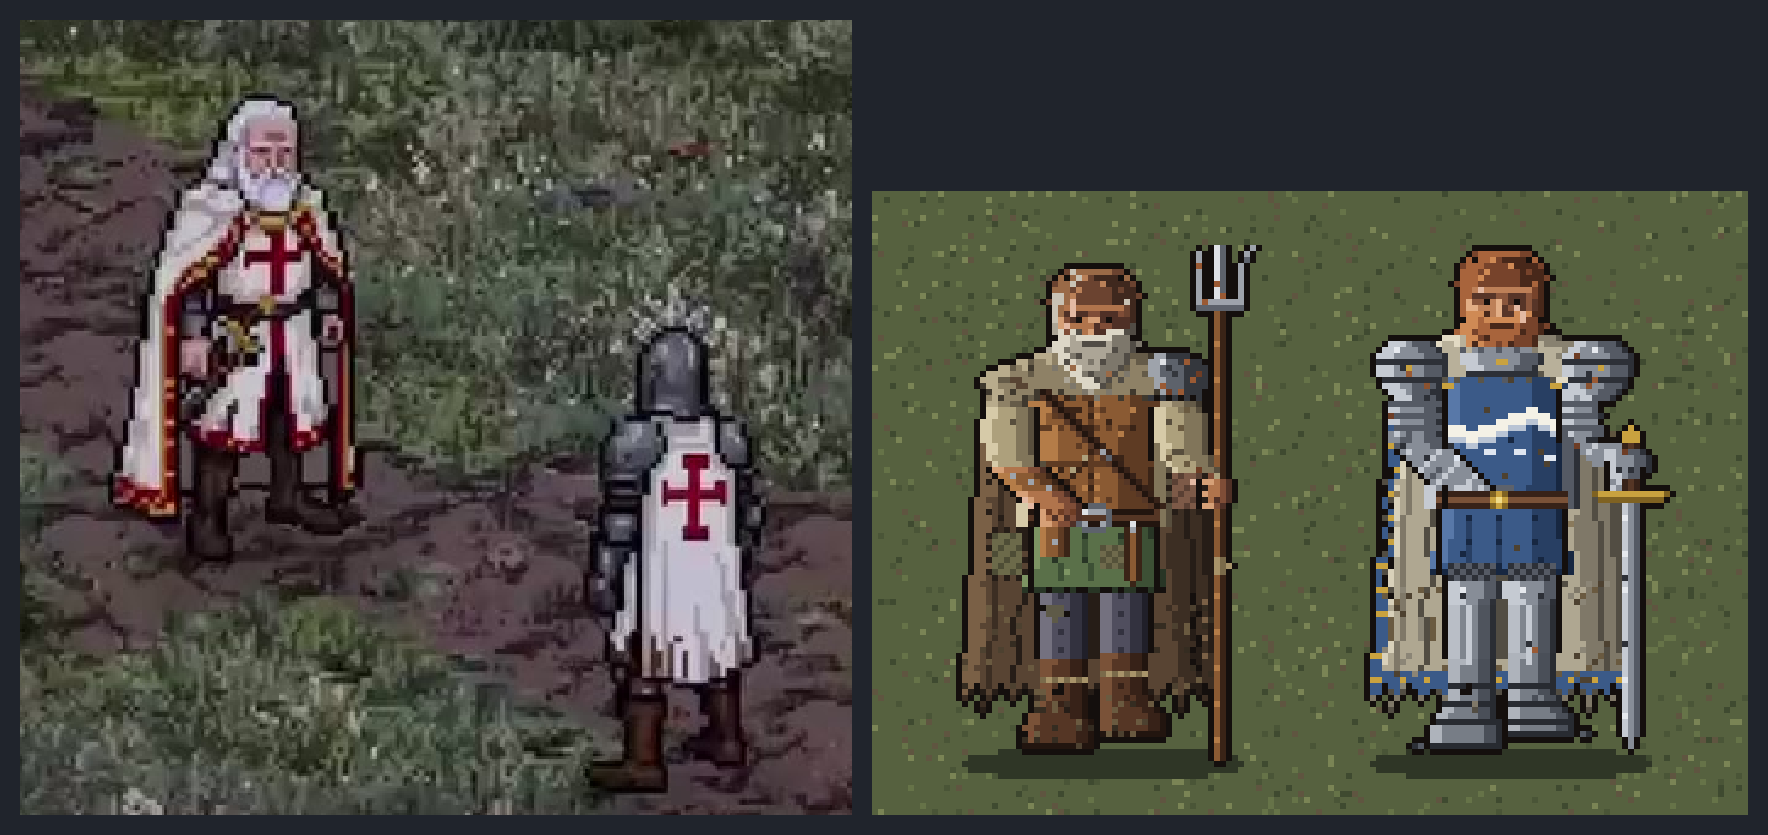
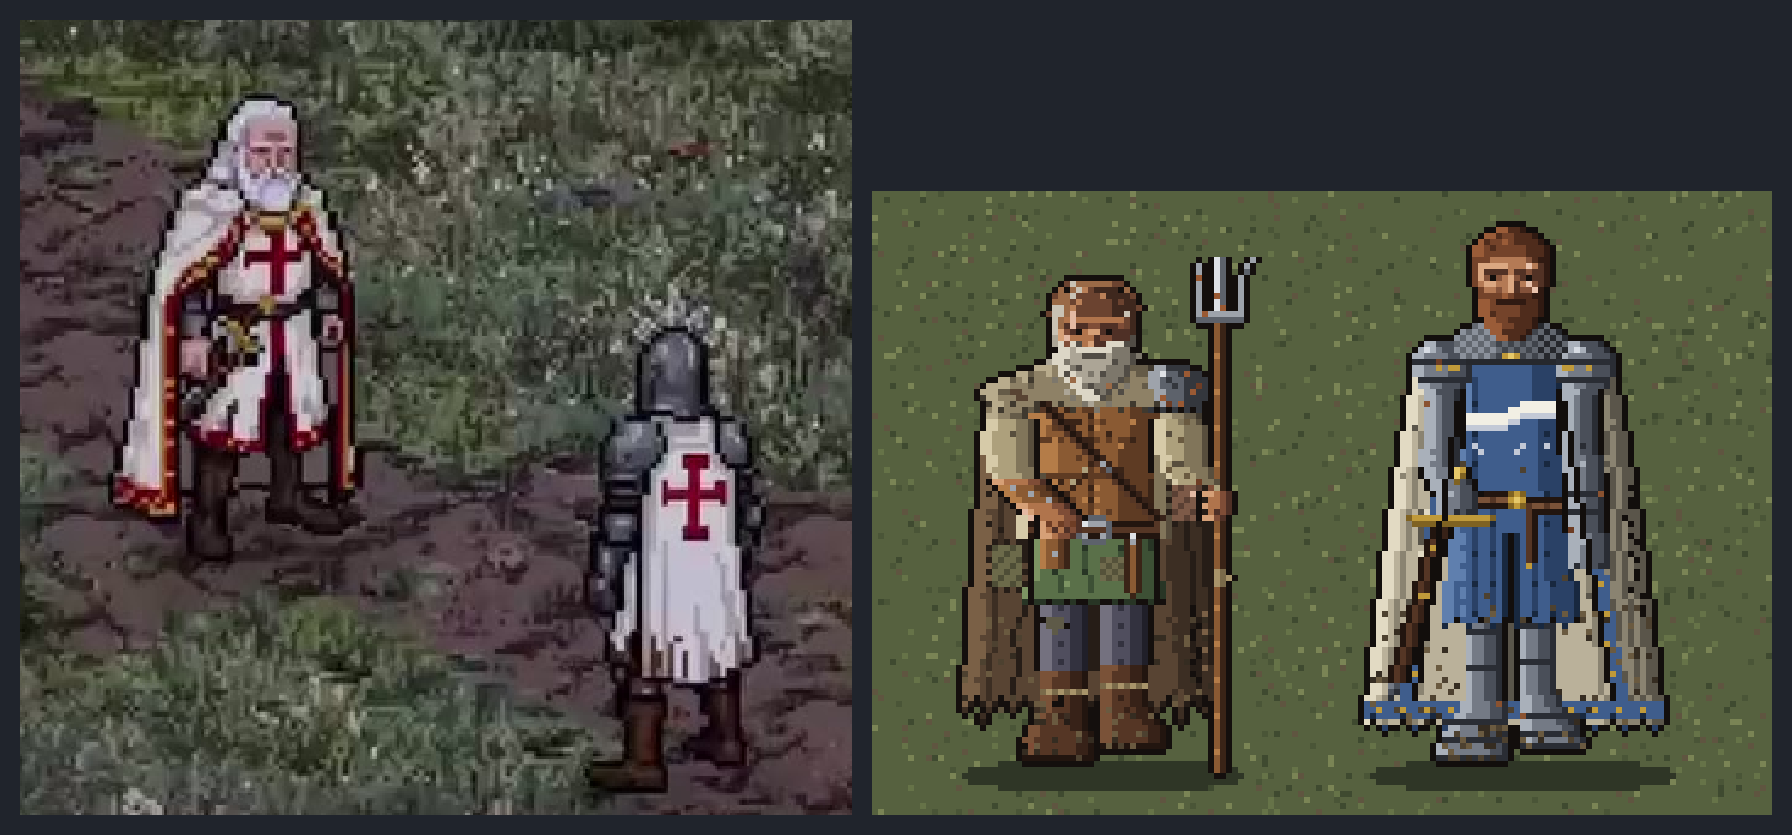
Vesper Road seed: the knight redrawn from measurements of the reference; notes on what reads as adult
Claude-Session: https://claude.ai/code/session_01H9sNYH9LKZF61giii29DCV

diff --git a/seeds/vesper-road/art-target/draw-knight.py b/seeds/vesper-road/art-target/draw-knight.py
@@ -1,0 +1,208 @@
+# Tobin at 24, a knight, drawn from measurements of the reference figures:
+# about 78 px tall; head 11 px wide and 17 tall with the beard (a real adult head, shaded, eyes in shadowed sockets);
+# shoulders about 29 px (2.6 head-widths) with a mail coif thickening the neck; a long surcoat to below the knee so only
+# greaves and sabatons show; long arms reaching mid-thigh; a cloak falling in an A to the ankle; dark gunmetal plate.
+from PIL import Image
+import random, math
+W,H=62,94; G=89; T=(0,0,0,0)
+def c(h): return tuple(int(h[i:i+2],16) for i in (1,3,5))+(255,)
+OUT=c('#120e0c')
+SKIN=[c('#dba882'),c('#b47a55'),c('#83523a'),c('#523225')]
+HAIR=[c('#9a5c38'),c('#74432a'),c('#4f2c1c'),c('#301a12')]
+STEEL=[c('#a9b0ba'),c('#747a85'),c('#4a4f59'),c('#2a2d34')]
+MAIL=[c('#8b919b'),c('#62676f'),c('#40444b'),c('#26282d')]
+BLUE=[c('#5f7fae'),c('#3f5d8c'),c('#2a4166'),c('#18283f')]
+CREAM=[c('#e2dac3'),c('#bab19a'),c('#8a8371'),c('#5a554a')]
+LEA=[c('#7a5238'),c('#553625'),c('#372218'),c('#22150f')]
+GOLD=[c('#e7c96a'),c('#c09a3a'),c('#7f6222')]
+WHITE=[c('#f2efe4'),c('#c3c9d6')]
+MUD=[c('#6a5a40'),c('#4d4130'),c('#352c21')]
+RUST=[c('#8a5230'),c('#6e3d25')]
+def draw():
+    img=Image.new('RGBA',(W,H),T); px=img.load()
+    def P(x,y,col):
+        if 0<=x<W and 0<=y<H: px[x,y]=col
+    def op(x,y): return 0<=x<W and 0<=y<H and px[x,y][3]!=0
+    def span(y,x0,x1,pal,lit=2,dark=2,deep=1):
+        for x in range(x0,x1+1):
+            i=x-x0; j=x1-x
+            P(x,y, pal[0] if i<lit else pal[3] if j<deep else pal[2] if j<deep+dark else pal[1])
+    L=lambda a,b,t: round(a+(b-a)*t)
+    inner=[]
+    # ---- cloak, behind everything: an A from the shoulders to the ankle
+    for y in range(22,84):
+        t=(y-22)/61
+        x0=L(15,6,t**0.8); x1=L(46,55,t**0.8)
+        span(y,x0,x1,CREAM,2,6,2)
+        for fx,tone in ((x0+3,2),(x0+5+(1 if (y//6)%2 else 0),3),(x0+8,2),(x1-3,3),(x1-6+(1 if (y//5)%2 else 0),3),(x1-9,2)):
+            if y>30 or fx<20 or fx>41: P(fx,y,CREAM[tone])
+        if y%9<6: P(x0+1,y,CREAM[0]); 
+        if y%11<7: P(x0+6,y,CREAM[0])
+    for x in range(6,56):                                     # hem: a blue band with gilt studs, ragged
+        for y in (80,81,82): 
+            if op(x,y): P(x,y,BLUE[1] if y!=81 or x%4 else GOLD[1])
+        if x%5==2: P(x,83,T); P(x,82,BLUE[3])
+        elif x%5==4: P(x,84,BLUE[2])
+    # ---- legs: greaves and sabatons under the surcoat
+    for y in range(64,81):
+        span(y,23,28,STEEL,1,2,1); span(y,32,37,STEEL,1,2,1)
+    for y in (68,74): 
+        for x in range(23,29): P(x,y,STEEL[3])
+        for x in range(32,38): P(x,y-1,STEEL[3])
+    for y,(a,b) in zip(range(80,90),[(22,29),(22,29),(21,29),(21,29),(20,29),(19,29),(19,29),(18,29),(18,29),(18,29)]): span(y,a,b,STEEL,2,2,1)
+    for y,(a,b) in zip(range(79,88),[(32,38),(32,38),(32,39),(32,39),(32,40),(32,41),(32,41),(32,42),(32,42)]): span(y,a,b,STEEL,2,2,1)
+    for x in range(18,30): P(x,89,STEEL[3])
+    for x in range(32,43): P(x,87,STEEL[3])
+    for y in (83,86): 
+        for x in range(19,30): 
+            if op(x,y): P(x,y,STEEL[3])
+    for y in (82,85):
+        for x in range(32,42):
+            if op(x,y): P(x,y,STEEL[3])
+    for y in range(66,80): P(29,y,OUT); P(30,y,CREAM[3]); P(31,y,OUT)
+    # ---- surcoat: long, to below the knee, split at the front
+    for y in range(24,67):
+        t=(y-24)/42
+        x0=L(22,19,t); x1=L(38,41,t)
+        span(y,x0,x1,BLUE,2,4,1)
+    for y in range(26,66):
+        for fx in (24,27,33,36):
+            if y>46 or fx in (24,36): P(fx+(1 if y>56 and fx>30 else 0),y,BLUE[2] if y%5 else BLUE[3])
+        if y>48 and y%3: P(22,y,BLUE[0]); 
+    for y in range(52,67): P(30,y,OUT); P(29,y,BLUE[3]); P(31,y,BLUE[3])       # the split
+    for x in range(19,42):
+        if x%4==1: P(x,66,T)
+        elif x%4==3: P(x,67,BLUE[3])
+    # device: a white river across the chest
+    for x in range(22,39):
+        yy=31+round(1.5*math.sin((x-22)/2.6))
+        P(x,yy,WHITE[0]); P(x,yy+1,WHITE[0]); P(x,yy+2,WHITE[1])
+    for x in (24,25,31,32,36): P(x,37+(x%2),WHITE[1])
+    # sword belt, slung low on one side, gilt buckle, hanging tail
+    for x in range(20,41):
+        yy=45+round((x-20)*0.12)
+        P(x,yy-1,LEA[3]); P(x,yy,LEA[0] if x%3 else LEA[1]); P(x,yy+1,LEA[3])
+    for (dx,dy,t) in [(-1,-1,2),(0,-1,1),(1,-1,2),(-1,0,1),(0,0,0),(1,0,1),(-1,1,2),(0,1,1),(1,1,2)]: P(31+dx,46+dy,GOLD[t])
+    for y in range(48,57): P(33,y,LEA[1]); P(34,y,LEA[3])
+    P(33,57,GOLD[1])
+    # ---- scabbard on his left hip (viewer's left), hanging back at an angle
+    for i in range(30):
+        x=19-round(i*0.28); y=47+i
+        P(x-1,y,LEA[3]); P(x,y,LEA[1]); P(x+1,y,LEA[2]); P(x+2,y,OUT)
+    for (x,y,t) in [(10,77,1),(11,77,2),(10,78,2),(11,78,3),(10,79,3)]: P(x,y,STEEL[t])
+    for (x,y) in [(17,54),(18,54),(15,62),(16,62)]: P(x,y,GOLD[1])
+    # ---- arms: plate, long. Viewer's right arm hangs; viewer's left hand rests on the hilt
+    for y in range(28,39): span(y,39,44,STEEL,2,2,1); inner.append((38,y)); inner.append((45,y))
+    for y in (39,40,41): span(y,39,45,STEEL,2,2,1)                                # couter
+    P(42,40,STEEL[0])
+    for y in range(42,52): span(y,40,45,STEEL,2,2,1); inner.append((39,y)); inner.append((46,y))
+    for y in (45,48): 
+        for x in range(40,46): P(x,y,STEEL[3])
+    for y in range(52,58): span(y,40,46,STEEL,2,2,1)                              # gauntlet
+    for x in (41,43,45): P(x,57,STEEL[3])
+    P(41,53,STEEL[0]); P(42,53,STEEL[0])
+    for y in range(28,38): span(y,16,21,STEEL,2,2,1); inner.append((22,y))
+    for y in (38,39,40): span(y,15,21,STEEL,2,2,1)
+    P(17,39,STEEL[0])
+    for i,y in enumerate(range(41,46)): span(y,16+i//2,22+i//2,STEEL,2,2,1); inner.append((23+i//2,y)); inner.append((15+i//2,y))
+    for y in range(44,49): span(y,18,24,STEEL,2,2,1)                              # gauntlet closed over the pommel
+    for x in (19,21,23): P(x,48,STEEL[3])
+    P(19,45,STEEL[0]); P(20,45,STEEL[0])
+    # hilt: cross-guard and grip showing under the hand, pommel above it
+    for x in range(14,27): P(x,49,GOLD[1]); P(x,50,GOLD[2])
+    P(13,49,GOLD[2]); P(27,49,GOLD[2])
+    for (x,y,t) in [(20,41,1),(21,41,0),(22,41,1),(20,42,1),(21,42,0),(22,42,2),(21,43,2)]: P(x,y,GOLD[t])
+    # ---- pauldrons: layered, modest, dark
+    for (x0,flip) in ((14,False),(38,True)):
+        rows=[(20,2,7),(21,1,8),(22,0,9),(23,0,9),(24,0,9),(25,0,9),(26,1,9),(27,1,8),(28,2,7)]
+        for y,a,b in rows:
+            xa,xb=(x0+a,x0+b) if not flip else (x0+9-b,x0+9-a)
+            span(y,xa,xb,STEEL,2,3,1)
+        for y in (23,26):
+            for x in range(x0,x0+10):
+                if px[x,y] in STEEL: P(x,y,STEEL[3])
+        P(x0+(2 if not flip else 3),21,c('#d7dce3')); P(x0+(3 if not flip else 4),21,STEEL[0])
+        P(x0+(4 if not flip else 5),24,GOLD[1])
+    # ---- mail coif pushed back round the neck: a thick collar
+    for y,(a,b) in zip(range(17,24),[(24,36),(22,38),(21,39),(21,39),(21,39),(22,38),(23,37)]):
+        for x in range(a,b+1): P(x,y,MAIL[1] if (x+y)%2 else (MAIL[0] if x<28 else MAIL[2] if x<35 else MAIL[3]))
+    for x in range(23,38): P(x,23,MAIL[3])
+    P(29,22,GOLD[1]); P(30,22,GOLD[0]); P(31,22,GOLD[1])                           # cloak clasp
+    for (x,y) in [(20,24),(21,24),(39,24),(40,24)]: P(x,y,GOLD[1])
+    # ---- head: narrow, long, shaded; cropped hair, short full beard
+    for y,(a,b) in zip(range(1,7),[(28,32),(26,34),(25,35),(24,36),(24,36),(24,36)]): span(y,a,b,HAIR,2,3,1)
+    for (x,y) in [(24,3),(36,3),(27,1),(33,1)]: P(x,y,T)
+    for (x,y) in [(26,3),(28,2),(31,3),(27,4),(33,4)]: P(x,y,HAIR[2])
+    for (x,y) in [(25,4),(26,2),(29,3)]: P(x,y,HAIR[0])
+    for y in range(6,15): span(y,25,35,SKIN,2,2,1)
+    for y in range(6,11): P(24,y,HAIR[1]); P(36,y,HAIR[3]); 
+    P(25,6,HAIR[1]); P(35,6,HAIR[3]); P(26,6,HAIR[1]); P(34,6,HAIR[2])
+    for x in range(26,35): P(x,7,SKIN[0] if x<30 else SKIN[1])                     # forehead
+    for x in (26,27,28,29): P(x,8,SKIN[3])                                         # heavy brows
+    for x in (31,32,33,34): P(x,8,SKIN[3])
+    P(30,8,SKIN[1])
+    for x in (26,27,28): P(x,9,SKIN[2])                                            # eyes sit in shadow
+    for x in (32,33,34): P(x,9,SKIN[3])
+    P(27,9,OUT); P(33,9,OUT); P(29,9,SKIN[1]); P(30,9,SKIN[0]); P(31,9,SKIN[2])
+    P(25,10,SKIN[1]); P(26,10,SKIN[0]); P(27,10,SKIN[0]); P(28,10,SKIN[1]); P(29,10,SKIN[1]); P(30,10,SKIN[0]); P(31,10,SKIN[3]); P(32,10,SKIN[1]); P(33,10,SKIN[2]); P(34,10,SKIN[2]); P(35,10,SKIN[3])
+    P(26,11,SKIN[1]); P(27,11,SKIN[1]); P(28,11,SKIN[2]); P(29,11,SKIN[1]); P(30,11,SKIN[0]); P(31,11,SKIN[3]); P(32,11,SKIN[2]); P(33,11,SKIN[2]); P(34,11,SKIN[3])
+    for x in range(27,34): P(x,12,HAIR[1] if x<31 else HAIR[2])                    # moustache
+    P(29,12,HAIR[0])
+    for y,(a,b) in zip(range(11,20),[(25,25),(25,26),(25,35),(25,35),(25,35),(26,34),(26,34),(27,33),(28,32)]):
+        if y>=13: span(y,a,b,HAIR,2,3,1)
+    P(25,11,HAIR[1]); P(25,12,HAIR[1]); P(35,11,HAIR[3]); P(35,12,HAIR[3]); P(26,12,HAIR[1]); P(34,12,HAIR[3])
+    for x in range(28,33): P(x,13,HAIR[3])                                         # mouth, in the beard
+    for (x,y) in [(27,15),(30,16),(32,15),(29,18)]: P(x,y,HAIR[2])
+    for (x,y) in [(26,14),(27,16),(28,17)]: P(x,y,HAIR[0])
+    for (x,y) in [(33,7),(33,10),(34,11)]: P(x,y,c('#e9c4ae'))                     # a scar through the brow to the cheek
+    P(33,8,SKIN[2])
+    # ---- cloak front edges: a blue band with gilt studs, down each side of the body
+    for y in range(30,80):
+        t=(y-25)/55
+        for xe,side in ((L(21,13,t),-1),(L(39,48,t),1)):
+            for d in (0,1):
+                x=xe+side*d
+                if op(x,y) and px[x,y] in CREAM: P(x,y,BLUE[1] if (y%5 or d) else GOLD[1])
+            inner.append((xe-side,y))
+    # ---- a hard road: mud, a cut in the cloak, rust, dents, stains
+    random.seed(9)
+    for _ in range(90):
+        x=random.randrange(6,56); y=random.randrange(64,85)
+        if op(x,y) and (px[x,y] in CREAM or px[x,y] in BLUE): P(x,y,random.choice(MUD))
+    for _ in range(26):
+        x=random.randrange(8,54); y=random.randrange(28,64)
+        if op(x,y) and px[x,y] in CREAM: P(x,y,random.choice([CREAM[2],CREAM[3]]))
+    for y in range(44,66): P(50-(1 if y%6<2 else 0)+ (y-44)//9,y,OUT if y%3 else CREAM[3])
+    for _ in range(34):
+        x=random.randrange(12,48); y=random.randrange(20,90)
+        if op(x,y) and px[x,y] in STEEL: P(x,y,random.choice([STEEL[3],STEEL[3],RUST[0],RUST[1]]))
+    for _ in range(12):
+        x=random.randrange(20,41); y=random.randrange(40,66)
+        if op(x,y) and px[x,y] in BLUE: P(x,y,random.choice([BLUE[3],MUD[1]]))
+    for y in range(84,90):
+        for x in range(18,43):
+            if op(x,y) and px[x,y] in STEEL and random.random()<.3: P(x,y,random.choice(MUD))
+    # ---- outline
+    s=img.copy().load()
+    for y in range(H):
+        for x in range(W):
+            if s[x,y][3]==0 and any(0<=x+dx<W and 0<=y+dy<H and s[x+dx,y+dy][3] for dx,dy in((1,0),(-1,0),(0,1),(0,-1))): px[x,y]=OUT
+    for (x,y) in inner:
+        if op(x,y): P(x,y,OUT)
+    return img
+if __name__=='__main__':
+    k=draw(); k.save('art-target/tobin-24.png')
+    bram=Image.open('art-target/bram.png')
+    ref=Image.open('references/sprites-figures-closeup.jpg').convert('RGBA').crop((310,575,650,900))
+    K=6; ref=ref.resize((int(ref.width*K/2.45),int(ref.height*K/2.45)),Image.NEAREST)
+    g=Image.new('RGBA',(bram.width+k.width+30,104),c('#56613f')); gp=g.load(); random.seed(4)
+    for _ in range(g.width*g.height//9):
+        x=random.randrange(g.width); y=random.randrange(g.height); gp[x,y]=random.choice([c('#667348'),c('#4a5537'),c('#7a8455'),c('#3f4a30'),c('#5f5540')])
+    for sp,x,foot in ((bram,8,83),(k,bram.width+18,G)):
+        for yy in range(95,100):
+            for xx in range(x+6,x+sp.width-4):
+                if ((xx-x-6)/(sp.width-10)-0.5)**2*4+((yy-97)/3)**2<1: gp[xx,yy]=c('#2f3626')
+        g.alpha_composite(sp,(x,94-foot))
+    big=g.resize((g.width*K,g.height*K),Image.NEAREST)
+    sheet=Image.new('RGBA',(ref.width+big.width+60,max(ref.height,big.height)+40),c('#20242c'))
+    sheet.alpha_composite(ref,(20,20)); sheet.alpha_composite(big,(ref.width+40,sheet.height-big.height-20)); sheet.save('art-target/tobin-24-beside-reference.png')

diff --git a/seeds/vesper-road/art-target/README.md b/seeds/vesper-road/art-target/README.md
@@ -26,3 +26,17 @@ parade (`tobin-24-beside-reference.png`). The device is this game's own; do not 
 Bram's own drawing, which is why the likeness holds; the 11 and 15 figures are simpler drafts and should be redrawn to
 Bram's level of finish.
 
+
+## What makes a figure read as a grown man (measured from the reference)
+
+`draw-knight.py` drew Tobin at 24 from measurements of the reference figures, after an earlier knight looked childish.
+The differences that mattered, for every adult:
+- A **narrow, long head**: about 11 px wide and 17 tall with the beard, never a wide round one.
+- **Eyes in shadow**: a dark brow band and sockets with a single dark pixel each. Never pale eye dots on a flat face.
+- **Face planes**: lit forehead and cheek on one side, shadowed on the other, a nose with a shadow beside it.
+- A **thick neck** (mail coif, collar, beard) so the head sits in the shoulders.
+- **Shoulders about 2.6 head-widths**, no wider: huge pauldrons look like a toy.
+- A **long garment** (surcoat or tunic to below the knee) so the legs are short and only boots or greaves show.
+- **Long arms**, hands at mid-thigh, doing something (a hand on the hilt).
+- **Dark, muted colour**: gunmetal plate with few highlights, not bright silver; dull cloth.
+- A cloak falling in an **A to the ankle**.
